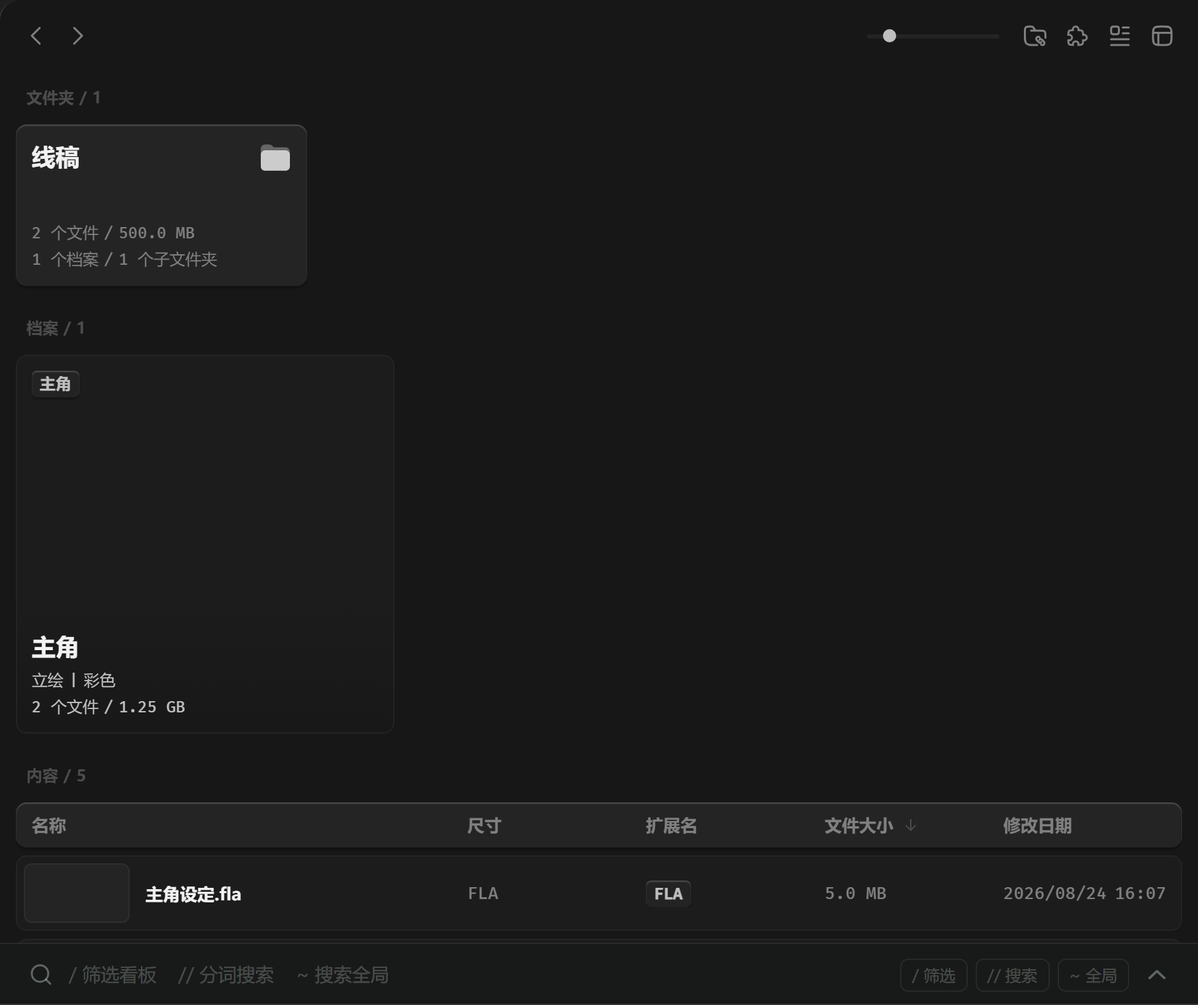
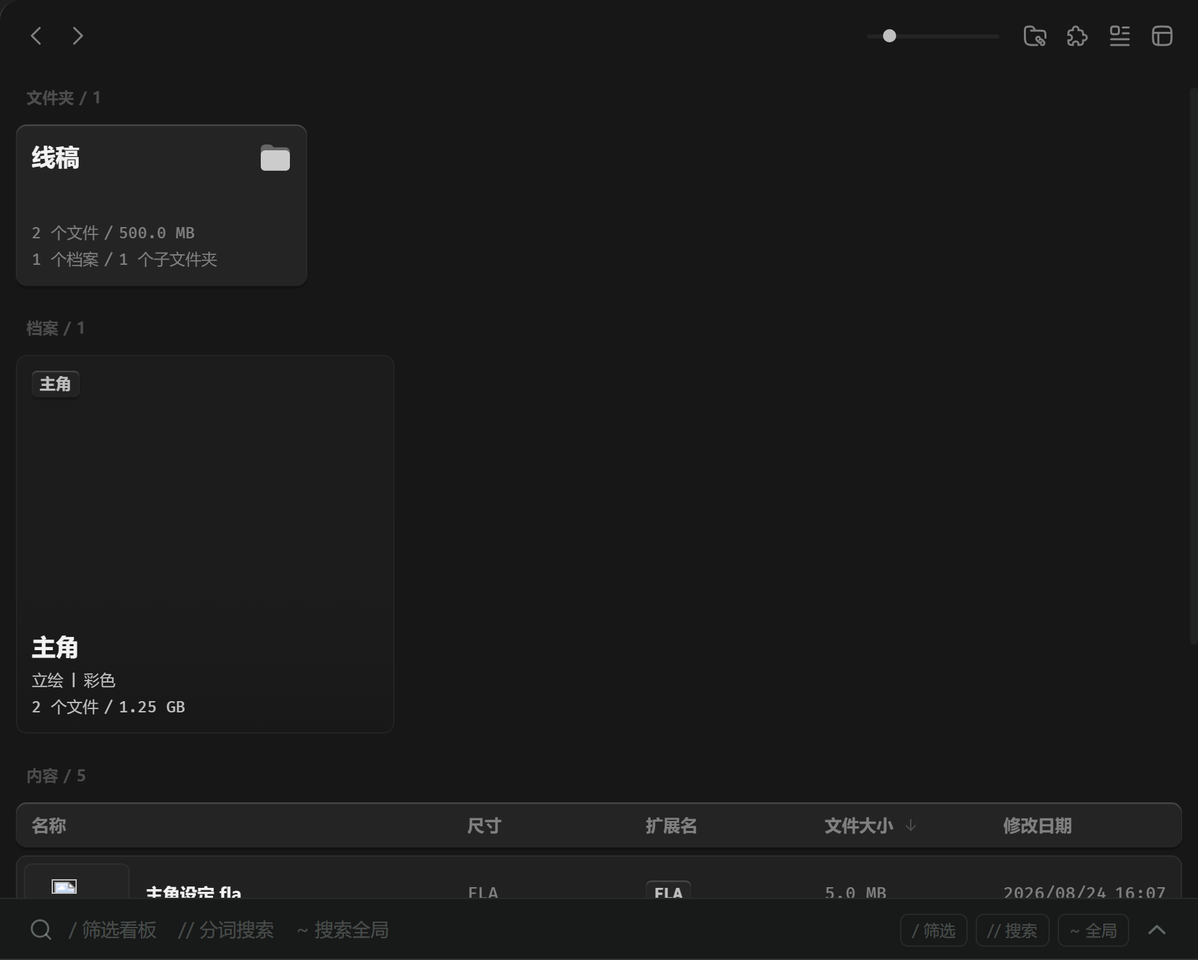
fix(内容区): 列表模式选中修复 + 格式图标 50%（7.1 走查五轮）
① 列表模式无法选中：7.1 列表行壳类名改 .list-row-shell 后，JS 分发
三处仍按旧标记类 .list-row 命中（gridPointerDown 拖拽/框选、
useSpaceZoom 空格放大、gridDispatch 右键菜单）——pointerdown 落空白
回调起框选吞 click。壳根补回 .list-row 标记类（无样式挂钩，一处改
三处全活，注释立勿删警戒）。

② 列表行 shell 图标撑太满：芯 cards/ListRowCard 补 thumbFit 两档
（contain 默认 / icon 50% 居中，FileCard icon 档同口径），壳按
thumbKind === formatIcon 传档。

探针：桩 a2 补 thumbKind=formatIcon；新增 T14d（dispatchMouseEvent
真实点击行选中回归——JS .click() 不过 pointerdown 分发链测不到本
bug）+ T14e（icon 档 39×21.5 = 内容盒 78×43 的 50%）；复跑 ALL PASS。
vue-tsc 绿；速查 §22 / 日志 / 进度同步。

diff --git a/src/components/cards/ListRowCard.vue b/src/components/cards/ListRowCard.vue
@@ -2,7 +2,8 @@
 // 列表卡片——docs/UI 重构/Design Token/组件/卡片/列表卡片.md：
 // 行高 57 / padding 6/12/6/6 / gap 12 / 圆角 8；通用二级底 + 通用三级 1px 描边；
 // hover = 底升通用三级 + 描边升通用五级（描边瞬时切换，踩坑 036 口径）；选中 2px 品牌描边（.kc-sel）。
-// 列：缩略图 80×45（通用三级底 + 五级 1px 描边 + 圆角 6，图 contain——沿用旧 ListRowCard 口径）
+// 列：缩略图 80×45（通用三级底 + 五级 1px 描边 + 圆角 6；thumbFit = contain 默认 / icon 格式图标
+//   50% 居中不撑满——2026-08-30 用户实机，FileCard icon 档同口径）
 //   / 名称+徽章（flex 1 gap 12：正文-加粗 一级 + 原始文件徽章 14 / 链接文件徽章 14）
 //   / 尺寸 / 格式（FormatBadge）/ 文件大小 / 修改时间（日期 + 时间 gap 6）——各 123 宽，数字-大档 亮色/三级。
 // 业务态（7.1 内容容器轮接线，同 cards/FileCard 模式）：naming = 行内重命名（名称位换输入框，
@@ -16,6 +17,7 @@ const props = withDefaults(
   defineProps<{
     name: string;
     thumbUrl?: string;
+    thumbFit?: "contain" | "icon"; // 缩略图适配：contain 默认 / icon = 格式图标 50% 居中（FileCard 同口径）
     badge?: string; // 格式角标（扩展名列）
     dims?: string; // 尺寸（1920 x 1080）
     fileSize?: string; // 文件大小（12 MB）
@@ -29,6 +31,7 @@ const props = withDefaults(
   }>(),
   {
     thumbUrl: "",
+    thumbFit: "contain",
     badge: "",
     dims: "",
     fileSize: "",
@@ -64,7 +67,7 @@ const { draft: nameDraft, bindInput, commit: commitName, onEsc: cancelName } = u
     :class="[{ selected, naming }, forceState ? `force-${forceState}` : '']"
   >
     <span class="lr-thumb">
-      <img v-if="thumbUrl" :src="thumbUrl" class="lr-thumb-img" alt="" decoding="async" draggable="false" />
+      <img v-if="thumbUrl" :src="thumbUrl" class="lr-thumb-img" :class="thumbFit" alt="" decoding="async" draggable="false" />
     </span>
     <span class="lr-name-cell">
       <!-- 命名态：input 替换名称位（整行品牌环提示，输入框透明底，速查 §4 统一口径） -->
@@ -137,6 +140,11 @@ const { draft: nameDraft, bindInput, commit: commitName, onEsc: cancelName } = u
   width: 100%;
   height: 100%;
   object-fit: contain;
+}
+/* 格式图标档（fla 等 shell 图标）：50% 居中不撑满（2026-08-30 用户实机，FileCard icon 档同口径） */
+.lr-thumb-img.icon {
+  width: 50%;
+  height: 50%;
 }
 
 /* 名称列：flex 1 gap 12，正文-加粗 一级截断 + 徽章 14 */

diff --git a/src/components/ListRowCard.vue b/src/components/ListRowCard.vue
@@ -90,7 +90,7 @@ function startRename(): void {
 
 <template>
   <div
-    class="list-row-shell"
+    class="list-row-shell list-row"
     :class="{ 'fade-source': faded === 'source', 'fade-cut': faded === 'cut' }"
     :style="{ left: `${box.left}px`, top: `${box.top}px`, width: `${box.width}px`, height: `${box.height}px` }"
     @click="emit('select', $event)"
@@ -98,6 +98,7 @@ function startRename(): void {
     <RowCard
       :name="displayName"
       :thumb-url="thumbUrl ?? ''"
+      :thumb-fit="asset.thumbKind === 'formatIcon' ? 'icon' : 'contain'"
       :badge="format"
       :dims="size"
       :file-size="fileSize"
@@ -115,7 +116,10 @@ function startRename(): void {
 </template>
 
 <style scoped>
-/* 壳：虚拟滚动 box 绝对定位；选中 / 重命名环与 hover 全归 cards/ListRowCard（kc 族） */
+/* 壳：虚拟滚动 box 绝对定位；选中 / 重命名环与 hover 全归 cards/ListRowCard（kc 族）。
+   .list-row = JS 分发标记类（无样式挂钩，勿删）：gridPointerDown 拖拽/框选分发、useSpaceZoom
+   空格放大定位、gridDispatch 右键菜单均按 ".asset-card, .list-row" 命中——7.1 重构壳改名
+   list-row-shell 后三处断配（单击被当空白起框选吞 click = 列表模式无法选中，2026-08-30 实机报修） */
 .list-row-shell {
   position: absolute;
   cursor: default;

diff --git a/tools/cdp-content-container-probe.py b/tools/cdp-content-container-probe.py
@@ -28,7 +28,9 @@
 #   T13 列表表头：34 高 g3 底圆角 8 padding 8/12 gap 12 + 名称列 flex 1 + 四数据列各 123 +
 #       标签 13/18 Bold 三级
 #   T14 列表行：57 高 padding 6/12/6/6 gap 12 g2 底圆角 8 + 缩略图 80×45（g3 + g5 描边圆角 6）+
-#       数据列 123 mono 数字-大 三级 + 名称 13/18 Bold 一级 + 文件大小/修改日期真值
+#       数据列 123 mono 数字-大 三级 + 名称 13/18 Bold 一级 + 文件大小/修改日期真值；
+#       T14d 真实点击行 → 选中（2026-08-30 列表选中回归，壳 list-row 标记类补回）+
+#       T14e 格式图标行 icon 档 50% 居中（a2 桩 thumbKind=formatIcon）
 #   T15 排序接线：点「文件大小」→ 列 active + 行序升序（首行 50.0 KB）；再点 → 箭头 desc +
 #       降序（首行 5.0 MB）；点「尺寸」列 → 无反应（无 SortKey 档纯展示）
 #   T15b 表头右缘 = 行右缘 = 视口右缘 -12（钉顶列头与行严格对齐）
@@ -99,7 +101,8 @@ window.__TAURI_INTERNALS__ = {
         ] },
       list_placements: [
         P({ assetId: "a1", folderId: "f1", name: "跑步循环.png", w: 1920, h: 1080, ext: "png", size: 2097152 }),
-        P({ assetId: "a2", folderId: "f1", name: "主角设定.fla", ext: "fla", size: 5242880 }),
+        P({ assetId: "a2", folderId: "f1", name: "主角设定.fla", ext: "fla", size: 5242880,
+            thumbKind: "formatIcon", thumbPath: "E:/fake/fla-icon.png" }),
         P({ assetId: "a3", folderId: "f1", name: "参考片段.mp4", w: 1280, h: 720, ext: "mp4", duration: 62.4, size: 1572864 }),
         P({ assetId: "a4", folderId: "f1a", name: "线稿01.png", w: 800, h: 600, ext: "png", size: 102400 }),
         P({ assetId: "a5", folderId: "f1a1", name: "草图01.png", w: 640, h: 480, ext: "png", size: 51200 }),
@@ -647,6 +650,42 @@ async def main():
                   isinstance(row14, dict) and row14.get("szt") == "2.0 MB"
                   and isinstance(row14.get("mt"), list) and row14["mt"] == ["2026/08/24", "16:07"],
                   json.dumps(row14, ensure_ascii=False))
+
+            # T14d 列表行真实点击 → 选中（2026-08-30 实机"列表模式无法选中"回归：壳 list-row 标记类
+            # 补回后 gridPointerDown 命中 ".asset-card, .list-row" 走拖拽分发，不再落空白框选吞 click；
+            # 必须 Input.dispatchMouseEvent 真实点击——JS .click() 不过 pointerdown 分发链测不到本 bug）
+            rc = await ev(
+                "(() => { const rows = [...document.querySelectorAll('.list-row-shell')]"
+                ".sort((a, b) => parseFloat(a.style.top) - parseFloat(b.style.top));"
+                " const r = rows[0].getBoundingClientRect(); return { x: r.x + 200, y: r.y + r.height / 2 }; })()")
+            if isinstance(rc, dict):
+                await send(ws, "Input.dispatchMouseEvent",
+                           {"type": "mousePressed", "x": rc["x"], "y": rc["y"],
+                            "button": "left", "buttons": 1, "clickCount": 1}, session=sess)
+                await send(ws, "Input.dispatchMouseEvent",
+                           {"type": "mouseReleased", "x": rc["x"], "y": rc["y"],
+                            "button": "left", "buttons": 0, "clickCount": 1}, session=sess)
+                await asyncio.sleep(0.4)
+            sel14 = await ev(
+                "(() => { const rows = [...document.querySelectorAll('.list-row-shell')]"
+                ".sort((a, b) => parseFloat(a.style.top) - parseFloat(b.style.top));"
+                " return { sel: !!rows[0].querySelector('.lr-card.selected'),"
+                "  mq: !!document.querySelector('.grid-viewport .marquee') }; })()")
+            check("T14d 列表行真实点击 → 选中（list-row 标记类命中分发，不落空白框选吞 click）",
+                  isinstance(sel14, dict) and sel14.get("sel") is True and sel14.get("mq") is False,
+                  json.dumps(sel14))
+
+            # T14e 格式图标行缩略图 icon 档 50% 居中（a2 fla 桩 thumbKind=formatIcon；
+            # 假 thumbPath 加载失败不影响——50% 是 CSS 尺寸与图加载无关）
+            ico = await ev(
+                "(() => { const rows = [...document.querySelectorAll('.list-row-shell')]"
+                ".sort((a, b) => parseFloat(a.style.top) - parseFloat(b.style.top));"
+                " const img = rows[1]?.querySelector('.lr-thumb-img');"
+                " return img ? { cls: img.className, w: img.offsetWidth, h: img.offsetHeight } : null; })()")
+            check("T14e 格式图标行缩略图 icon 档 50% 居中不撑满（2026-08-30 用户实机）",
+                  isinstance(ico, dict) and "icon" in (ico.get("cls") or "")
+                  and ico.get("w") == 39 and abs((ico.get("h") or 0) - 21.5) < 1,
+                  json.dumps(ico))
 
             async def read_sizes():
                 return await ev(

diff --git a/docs/05_项目进度/00_当前状态.md b/docs/05_项目进度/00_当前状态.md
@@ -1,6 +1,6 @@
 > 任务完成即更新本文件。开发中发现的遗漏细节记入 [[09_待办细节清单]]，按迭代消化，不在代码里就地糊（见 01_开发规范 第 4 条）。
 
-- **阶段七 7.1 二十一轮 · 中间面板-内容容器轮——工具栏 + 列表容器族 + 空态贴稿重构（2026-08-30，feat/new-ui，范围与容量数据两问用户定案：预览族与悬浮栏接入另轮，容量后端扩展一起做）**：**工具栏**（ContentTitleBar 重写）：padding 12 / 面包屑组 gap 12 / 钮组 gap 2 贴稿，钮全迁 buttons/IconButton plain（本轮补 title prop 走 v-tip）；后退/前进 = angle-bracket（前进 flip-h）、添加 = add-file-archive-link、插件 plugin 占位 disabled、分组管理/查看方式沿用、展开详细信息 = collapse-sidebar flip-h（右栏收起才现，业务口径不变）、档案面板展开钮 = collapse-sidebar 原样——旧 nav-history / collapse-detail / thumbnail / ai-tools 引用清零；**搜索结果计数接线**（「搜索结果 / N」= 文件 + 档案命中，正文 二级 + 数字-大 三级）；尺寸滑块 = **BarSlider tone="size" 新档**（轨道 g3、拖钮无描边），SideSlider 出中栏（残留 PreviewFont / PreviewTitleBar 2 处待预览轮）。**骨架**：列表容器 padding 12 12 0 贴稿（layouts PAD = 0/12/0/0——右 12 卡片右缘距容器 12、滚动条命中区贴缘不压卡；底 0 稿值；strips 旧 padding-right 16 撤）；区块标题三处 + 分组标题（原位 + sticky）全迁 **items/SectionTitle**（本轮扩 `actions` prop + `tail` 插槽 + more/add/link emit 带 MouseEvent；折叠守卫在调用方 = dragView.suppressClick）；分组标题占位高 30→26（useGridLayout / sticky 让位 / 两层高同步），sticky 底 --n-g1。**文件夹卡**迁 cards/FolderCard（auto-fill minmax 220 + auto-rows 122 定高 + gap 12）：简介两行恒定「N 个文件 / 容量」+「M 个档案 / K 个子文件夹」（直接子级按 kind 分流）——**容量 = 后端新字段 totalSize**（FolderNode 递归去重合计、folder_tree 与 count 同趟；list_archives 同带、archive_stats 抽出共用；cargo test 405 绿 + 07 接口文档已录）；重命名与 namingFolderCardId 触发上移到 strip。**档案卡**迁 cards/ArchiveCard（aspect-ratio 1 正方形、minmax 250、gap 12 旧 24 废）：徽标 = FormatBadge 统一铬（badge.color 底色芯片口径作废）、属性行 = ArchiveData.props、数量行带容量；右下链接徽章业务口径未定恒 false（09 待办）；旧纸张/回形针造型废除，旧根目录 FolderCard.vue / ArchiveCard.vue 删除。**文件卡 = 壳芯分离**（AssetCard 业务壳 + cards/FileCard 芯，AssetGrid 调用接口零改）：FileCard 扩 thumbFit（cover / contain 网格固定格 / icon 格式图标 50%）/ naming / picked / 默认插槽（悬停播放层注入位：缩略图上、渐变罩下；层根不建层叠上下文，控件 z 4/5 全局层叠胜渐变罩 z 1）；格式角标统一 FormatBadge 铬（formatBadgeColor 仅留"静态图不出角标"null 判定，七组格式色废弃）；位置徽章 14 右下 12（kc-corner-badge 位，旧 15/8 废）；悬停播放触发区 = 整卡（新稿卡即图满铺）；笔记角标保旧视觉旧位（与悬停胶囊位置关系稿未画，09 待办）。**悬停播放层 UI 换代**（播放逻辑不动）：视频 = 右上 kc-float 胶囊（帧号 + 播放/暂停（新增 togglePlay）+ 音量/静音，card-hover-* 图标 14）+ 底部 4px 播放条（l-a2 轨道 / l1 填充 / 贴底 4 左右 12 / 圆头 99 / pointer-events none 不挡名称）；音频 = 右上胶囊（时长 + 播放/暂停）+ mask 波形扫过保留（peaks 竖线波形如稿待后端数据通道，09 待办）+ 1px 播放头竖线废除；base.css 旧 .capsule/.time/.hud-btn 死码清除。**列表模式**：行 = 壳 ListRowCard + 芯 cards/ListRowCard（57 高 / gap 6 / **斑马行废除**统一 g2+g3 描边 / **文件大小·修改日期接真值**——旧写死假占位清欠 / 行级位置徽章 origin·linked 14，悬停链接列表稿未画不接待办）；表头 = 壳 ListHeader + 芯 cards/ListHeader（34 高 g3 底、钉顶 right 12 与行右缘齐）+ **排序接线**（列 key→SortKey：name/ext/size/mtime→modifiedAt；点当前列翻转升降、点新列换键升序，直写 ui.sortBy/sortAsc 同 ViewOptionsMenu 口径；尺寸列无 SortKey 档纯展示，件内 sortable 标记 + 壳双闸）；LIST_ROW_H 69→57 / LIST_ROW_GAP 4→6 / listExtra 52→40。**空态新件 EmptyFolderState**（folder: 视口 + quick:all 且三区皆空；回收站/收件箱不出；插画 folder-empty 200（opacity 0.6 + drop-shadow）+「暂无文件」+ 提示（稿「拖窄」笔误，用户定「拖拽」）+ 导入文件/文件夹双钮（ActionButton solid md + 前置图标，各 137 稿宽；业务 = menuOps.pickImportPaths 既有口径）；根 pointer-events none 穿透仅钮可点）。**卡片业务态统一模式**（cards 族扩 props，TreeRowItem 先例）：naming（卡内 useInlineRename；文件 Esc = 取消 nameCancel / 文件夹·档案 escSaves；空/不变判定在父级）/ dimmed 0.4 / cut 0.5 / dropInto 品牌-50 填充 + 2px 品牌描边 / picked 卡内压暗 30% + 壳层大勾 / pickerSelf 0.5 + not-allowed。图标七批 6 个转 currentColor（add-file-archive-link / plugin / group-manage / view-options / import-file / import-folder）。vue-tsc 绿；速查表 §22 新立；预览页展区同轮更新；cdp-content-container-probe 新立（结果见当日日志）。**同日修订（用户实机走查七条）**：尺寸滑块滑轨 3px（figma height 0 + border 3 = 线宽 3 非盒高 6）；预览工具栏返回 = chevron-large 原样朝左（§6 朝向口径与文件相反修正，旧 rot-180 反了）+ 索引 mono 13/18 + 百分比 mono 12/16 + 图标统一 --n-l3 + 图标名换代（plugin/fit-screen/angle-bracket）；递归显示撤区块标题行（查看方式菜单里有就行）；strips/InboxDisk 补 padding-right 12（PAD.right 只管素材网格，strip 自收——骨架轮误删致右缘出容器被裁）；文件夹卡固定 220 宽列不随窗拉伸（废 1fr 弹性重排抖动）；插入提示与框选 = --n-brand 描边 + --n-brand-50 填充（青绿旧系换品牌蓝）。探针适配复跑 ALL PASS。**同日三轮修订（用户实机"文件卡片没按图片尺寸、都被裁剪了"）**：根因 = 满铺卡落地后布局层仍按旧"图+下文字区"排版追加简介区高度（57/36），盒比例 ≠ 图比例致 cover 必裁——四布局算法删 captionHeight，**盒高 = 纯图高**（盒比例恒 = 图比例 cover 零裁），CARD_CAPTION 双常量删除；**显示简介「关」口径变化 = 仅隐简介行不缩卡**（8-19 缩短卡片旧口径随满铺废除），useGridLayout 不再随 showBrief 重排。cdp-content-container-probe 复跑 ALL PASS；cdp-brief-probe 适配新口径全部通过（S2a = 盒比例 = 图比例核心回归断言 / S3a = 卡高不变）；PRD 04-02 显示简介条文同步。**同日四轮修订（用户实机两条）**：① 链接徽章没随 hover 上移——位置徽章/笔记角标/已选大勾挂壳层（卡芯外），卡芯 hover translateY(-4px) 250ms 而附件不动，三附件补同参数过渡跟随；②「分组怎么没了」= 非回归——递归显示开着时 folderGroupsFor 恒 null（递归不分组，8-19 复验定案：分组配置仅对直接子项生效，递归下后代素材建组成幽灵配置），关递归即回。探针复跑 ALL PASS。
+- **阶段七 7.1 二十一轮 · 中间面板-内容容器轮——工具栏 + 列表容器族 + 空态贴稿重构（2026-08-30，feat/new-ui，范围与容量数据两问用户定案：预览族与悬浮栏接入另轮，容量后端扩展一起做）**：**工具栏**（ContentTitleBar 重写）：padding 12 / 面包屑组 gap 12 / 钮组 gap 2 贴稿，钮全迁 buttons/IconButton plain（本轮补 title prop 走 v-tip）；后退/前进 = angle-bracket（前进 flip-h）、添加 = add-file-archive-link、插件 plugin 占位 disabled、分组管理/查看方式沿用、展开详细信息 = collapse-sidebar flip-h（右栏收起才现，业务口径不变）、档案面板展开钮 = collapse-sidebar 原样——旧 nav-history / collapse-detail / thumbnail / ai-tools 引用清零；**搜索结果计数接线**（「搜索结果 / N」= 文件 + 档案命中，正文 二级 + 数字-大 三级）；尺寸滑块 = **BarSlider tone="size" 新档**（轨道 g3、拖钮无描边），SideSlider 出中栏（残留 PreviewFont / PreviewTitleBar 2 处待预览轮）。**骨架**：列表容器 padding 12 12 0 贴稿（layouts PAD = 0/12/0/0——右 12 卡片右缘距容器 12、滚动条命中区贴缘不压卡；底 0 稿值；strips 旧 padding-right 16 撤）；区块标题三处 + 分组标题（原位 + sticky）全迁 **items/SectionTitle**（本轮扩 `actions` prop + `tail` 插槽 + more/add/link emit 带 MouseEvent；折叠守卫在调用方 = dragView.suppressClick）；分组标题占位高 30→26（useGridLayout / sticky 让位 / 两层高同步），sticky 底 --n-g1。**文件夹卡**迁 cards/FolderCard（auto-fill minmax 220 + auto-rows 122 定高 + gap 12）：简介两行恒定「N 个文件 / 容量」+「M 个档案 / K 个子文件夹」（直接子级按 kind 分流）——**容量 = 后端新字段 totalSize**（FolderNode 递归去重合计、folder_tree 与 count 同趟；list_archives 同带、archive_stats 抽出共用；cargo test 405 绿 + 07 接口文档已录）；重命名与 namingFolderCardId 触发上移到 strip。**档案卡**迁 cards/ArchiveCard（aspect-ratio 1 正方形、minmax 250、gap 12 旧 24 废）：徽标 = FormatBadge 统一铬（badge.color 底色芯片口径作废）、属性行 = ArchiveData.props、数量行带容量；右下链接徽章业务口径未定恒 false（09 待办）；旧纸张/回形针造型废除，旧根目录 FolderCard.vue / ArchiveCard.vue 删除。**文件卡 = 壳芯分离**（AssetCard 业务壳 + cards/FileCard 芯，AssetGrid 调用接口零改）：FileCard 扩 thumbFit（cover / contain 网格固定格 / icon 格式图标 50%）/ naming / picked / 默认插槽（悬停播放层注入位：缩略图上、渐变罩下；层根不建层叠上下文，控件 z 4/5 全局层叠胜渐变罩 z 1）；格式角标统一 FormatBadge 铬（formatBadgeColor 仅留"静态图不出角标"null 判定，七组格式色废弃）；位置徽章 14 右下 12（kc-corner-badge 位，旧 15/8 废）；悬停播放触发区 = 整卡（新稿卡即图满铺）；笔记角标保旧视觉旧位（与悬停胶囊位置关系稿未画，09 待办）。**悬停播放层 UI 换代**（播放逻辑不动）：视频 = 右上 kc-float 胶囊（帧号 + 播放/暂停（新增 togglePlay）+ 音量/静音，card-hover-* 图标 14）+ 底部 4px 播放条（l-a2 轨道 / l1 填充 / 贴底 4 左右 12 / 圆头 99 / pointer-events none 不挡名称）；音频 = 右上胶囊（时长 + 播放/暂停）+ mask 波形扫过保留（peaks 竖线波形如稿待后端数据通道，09 待办）+ 1px 播放头竖线废除；base.css 旧 .capsule/.time/.hud-btn 死码清除。**列表模式**：行 = 壳 ListRowCard + 芯 cards/ListRowCard（57 高 / gap 6 / **斑马行废除**统一 g2+g3 描边 / **文件大小·修改日期接真值**——旧写死假占位清欠 / 行级位置徽章 origin·linked 14，悬停链接列表稿未画不接待办）；表头 = 壳 ListHeader + 芯 cards/ListHeader（34 高 g3 底、钉顶 right 12 与行右缘齐）+ **排序接线**（列 key→SortKey：name/ext/size/mtime→modifiedAt；点当前列翻转升降、点新列换键升序，直写 ui.sortBy/sortAsc 同 ViewOptionsMenu 口径；尺寸列无 SortKey 档纯展示，件内 sortable 标记 + 壳双闸）；LIST_ROW_H 69→57 / LIST_ROW_GAP 4→6 / listExtra 52→40。**空态新件 EmptyFolderState**（folder: 视口 + quick:all 且三区皆空；回收站/收件箱不出；插画 folder-empty 200（opacity 0.6 + drop-shadow）+「暂无文件」+ 提示（稿「拖窄」笔误，用户定「拖拽」）+ 导入文件/文件夹双钮（ActionButton solid md + 前置图标，各 137 稿宽；业务 = menuOps.pickImportPaths 既有口径）；根 pointer-events none 穿透仅钮可点）。**卡片业务态统一模式**（cards 族扩 props，TreeRowItem 先例）：naming（卡内 useInlineRename；文件 Esc = 取消 nameCancel / 文件夹·档案 escSaves；空/不变判定在父级）/ dimmed 0.4 / cut 0.5 / dropInto 品牌-50 填充 + 2px 品牌描边 / picked 卡内压暗 30% + 壳层大勾 / pickerSelf 0.5 + not-allowed。图标七批 6 个转 currentColor（add-file-archive-link / plugin / group-manage / view-options / import-file / import-folder）。vue-tsc 绿；速查表 §22 新立；预览页展区同轮更新；cdp-content-container-probe 新立（结果见当日日志）。**同日修订（用户实机走查七条）**：尺寸滑块滑轨 3px（figma height 0 + border 3 = 线宽 3 非盒高 6）；预览工具栏返回 = chevron-large 原样朝左（§6 朝向口径与文件相反修正，旧 rot-180 反了）+ 索引 mono 13/18 + 百分比 mono 12/16 + 图标统一 --n-l3 + 图标名换代（plugin/fit-screen/angle-bracket）；递归显示撤区块标题行（查看方式菜单里有就行）；strips/InboxDisk 补 padding-right 12（PAD.right 只管素材网格，strip 自收——骨架轮误删致右缘出容器被裁）；文件夹卡固定 220 宽列不随窗拉伸（废 1fr 弹性重排抖动）；插入提示与框选 = --n-brand 描边 + --n-brand-50 填充（青绿旧系换品牌蓝）。探针适配复跑 ALL PASS。**同日三轮修订（用户实机"文件卡片没按图片尺寸、都被裁剪了"）**：根因 = 满铺卡落地后布局层仍按旧"图+下文字区"排版追加简介区高度（57/36），盒比例 ≠ 图比例致 cover 必裁——四布局算法删 captionHeight，**盒高 = 纯图高**（盒比例恒 = 图比例 cover 零裁），CARD_CAPTION 双常量删除；**显示简介「关」口径变化 = 仅隐简介行不缩卡**（8-19 缩短卡片旧口径随满铺废除），useGridLayout 不再随 showBrief 重排。cdp-content-container-probe 复跑 ALL PASS；cdp-brief-probe 适配新口径全部通过（S2a = 盒比例 = 图比例核心回归断言 / S3a = 卡高不变）；PRD 04-02 显示简介条文同步。**同日四轮修订（用户实机两条）**：① 链接徽章没随 hover 上移——位置徽章/笔记角标/已选大勾挂壳层（卡芯外），卡芯 hover translateY(-4px) 250ms 而附件不动，三附件补同参数过渡跟随；②「分组怎么没了」= 非回归——递归显示开着时 folderGroupsFor 恒 null（递归不分组，8-19 复验定案：分组配置仅对直接子项生效，递归下后代素材建组成幽灵配置），关递归即回。探针复跑 ALL PASS。**同日五轮修订（用户实机：列表模式两条）**：① **列表模式无法选中**——7.1 壳类名改 list-row-shell 后 JS 分发三处仍按旧标记类 .list-row 命中（gridPointerDown / useSpaceZoom / gridDispatch），pointerdown 落空白框选吞 click；壳根补回 .list-row 标记类（无样式挂钩一处改三处全活）；② 列表行格式图标撑太满——芯补 thumbFit 两档（contain / icon 50% 居中，FileCard 同口径），壳按 thumbKind=formatIcon 传档。探针新增 T14d（dispatchMouseEvent 真实点击选中回归）+ T14e（icon 档 39×21.5）全 PASS。
 
 **根因链**（新探针 `win-border-measure.py` 实机像素测量坐实：mss 物理截屏 + PIL 剖线 + MoveWindow 相位驱动 + 染色分离实验）：① 五轮同色遮罩环与 DWM 线并集左右不对称（左/上 3px vs 右/下 2px——视口缘与 DWM 线 1 物理 px 系统错位）+ 角部 CSS 弧（10.5 物理）与 DWM 裁切弧（10.3 物理）异径分离出缝，**任何 CSS 线逃不掉系统错位**；顺带推翻两个假设——Chromium 直边 1px border 自动吸附物理 1px 锐线无半透列（"分数 DPR 必糊"不成立）、DWM 线 @150% = **2 物理 px** 非 1。② 角部"钩形透出下层白钮"真根因（用户查证）：tao `transparent:true` 的 blur-behind 空 region hack 让含非客户区的整窗表面按 alpha 合成，"DWM 圆角描边曲线与方形客户区角"间的**月牙缝 alpha=0 成透底洞**；CSS 四角垫块（只及客户区位图）与 `ExtendFrame(-1)` 单加（transparent:true 下）均无效。**落地**：云母模式 `.window.fx-mica::before` **零绘制**（border 0 + shadow none，边框主权 100% 交 DWM；picking 前端全零画、DWM 切染品牌线独存；实色模式自绘不变）+ tauri.conf **`transparent:false + backgroundColor:#00000000`**（Mica 由 DWM 在窗口表面底下合成，不需 tao transparent；要透明的只有 WebView2 默认背景）+ lib.rs **`DwmExtendFrameIntoClientArea(-1)`**（DWM 帧/backdrop 填充非客户区缝；Cargo.toml windows 加 `Win32_UI_Controls`）。实机：四边均匀 2 物理 px、角弧原生观感、月牙缝消失、UI/Mica 完整（用户确认生效）。**验证**：cdp-window-shell-probe W2 组改零绘制断言 ALL PASS；cargo test 403 / vue-tsc 绿。**文档**：063 补六轮实录（含三层归属预防：客户区/非客户区/窗外，垫色块只对客户区有效）、057 配置终态修订（transparent:false 组合）、速查表 §19 更新。**流程坑**：Rust 编译失败（MARGINS 缺 feature）会让 tauri dev 静默死窗——dev 不重启需手动 `pnpm tauri dev`（旧 vite 孤儿占 5373 先杀）。
 

diff --git a/docs/02_样式与布局/03_新面板口径速查.md b/docs/02_样式与布局/03_新面板口径速查.md
@@ -251,6 +251,6 @@
 - **档案卡**：aspect-ratio 1 正方形（minmax 250）+ gap 12（旧 24 废）；徽标 = **FormatBadge 统一铬**（badge.color 底色芯片口径作废）；attrs = ArchiveData.props（" | "）；stats = 「N 个文件 / 容量」（**list_archives 带 totalSize**，archive_stats 抽出共用）；右下链接徽章业务口径未定 → 恒 false（09 待办）；旧 archive-paper 纸张/回形针造型废除，旧根目录 ArchiveCard.vue 删除（FolderCard.vue 同删；SectionHeader 残留 9 处（详情面板 sections / InboxDiskSection / MovePanel）待对应面板轮）。
 - **文件卡 = 壳 + 芯模式**：`AssetCard.vue` = 业务壳（box 绝对定位 / 悬停播放层分发与自动播放闸 / renamingKey / 位置徽章 + LinkListPopover / 笔记角标 / picked·pickerSelf / fade 半透明——接口对 AssetGrid 不变），内芯 = `cards/FileCard`（新增 props：**thumbFit**（cover / contain 网格固定格 / icon 格式图标 50%）、naming、picked；**默认插槽** = 播放层注入位（缩略图上、渐变罩下；层根不建层叠上下文，控件 z 4/5 全局层叠在渐变罩 z 1 之上）；名称 tip = v-tip {text, keys: info, column}）。格式角标 = FormatBadge 统一铬（**formatBadgeColor 仅留"静态图不出角标" null 判定，七组格式色废弃**）；位置徽章 14px 右下各 12（kc-corner-badge 位，旧 15/8 废）；**悬停播放触发区 = 整卡**（新稿卡即图满铺；渐变罩在播放层之上，底部名称行不 scrub 与旧一致）；笔记角标保旧视觉旧位（右上 4，与悬停胶囊 12 位关系稿未画，09 待办）。**盒高 = 纯图高**（2026-08-30 用户实机"卡片没按图片尺寸、都被裁剪"修订）：布局四算法不再按行追加简介区（旧 CARD_CAPTION_H 57 / COMPACT 36 排版随满铺废除——盒高比图高多一截致盒比例 ≠ 图比例，cover 满铺必裁）；盒比例恒 = 图比例（thumbW ?? w ?? 300），cover 零裁；**显示简介关 = 仅隐简介行不缩卡**（旧"缩短卡片 57→36"2026-08-19 口径废除，useGridLayout 不再随 showBrief 重排）。**壳层附件随卡芯 hover 上移**（2026-08-30 用户实机"徽章没随 hover 上移"修订）：位置徽章 / 笔记角标 / 已选大勾在壳层（卡芯外），卡芯 kc-media:hover translateY(-4px) 250ms——三附件同参数 translateY(-4px) 跟随（大勾保 translate(-50%) 居中换算）。
 - **悬停播放层 UI 换代**（播放逻辑不动）：视频 = 右上胶囊（kc-float：帧号 + 播放/暂停 + 音量/静音，card-hover-* 图标 14，二级 hover 一级）+ 底部 4px 播放条（轨道 l-a2、填充 l1、贴底 4 左右 12、圆头 99、pointer-events none）；音频 = 右上胶囊（时长 + 播放/暂停）+ mask 波形扫过保留（**peaks 竖线波形如稿待后端数据通道，09 待办**）、1px 播放头竖线废除（稿无）；base.css 旧 .capsule/.time/.hud-btn 死码已清。
-- **列表模式**：行 = 壳 ListRowCard + 芯 cards/ListRowCard（57 高 / gap 6 / **斑马行废除**统一 g2+g3 描边；**文件大小/修改日期接真值**（旧写死假占位废除）；行级位置徽章（origin ★ / linked icon 14，**悬停链接列表稿未画不接**，09 待办））；表头 = 壳 ListHeader（钉顶 right 12 与行右缘齐）+ 芯 cards/ListHeader（34 高 g3 底），**排序接线**（列 key→SortKey：name/ext/size/mtime→modifiedAt；点当前列翻转升降、点新列换键升序，直写 ui.sortBy/sortAsc 同 ViewOptionsMenu 口径；**尺寸列无 SortKey 档纯展示**——cards/ListHeader 列定义 sortable 标记双闸）；layouts.ts LIST_ROW_H 57 / LIST_ROW_GAP 6，useGridLayout listExtra = 40（34+6）。
+- **列表模式**：行 = 壳 ListRowCard + 芯 cards/ListRowCard（57 高 / gap 6 / **斑马行废除**统一 g2+g3 描边；**文件大小/修改日期接真值**（旧写死假占位废除）；行级位置徽章（origin ★ / linked icon 14，**悬停链接列表稿未画不接**，09 待办）；缩略图 80×45，thumbFit = contain 默认 / **icon 格式图标 50% 居中不撑满**——2026-08-30 用户实机，FileCard icon 档同口径）；**壳根必带 `.list-row` 标记类**（无样式挂钩勿删——gridPointerDown 拖拽/框选、useSpaceZoom 空格放大、gridDispatch 右键菜单均按 ".asset-card, .list-row" 命中，7.1 壳改名 list-row-shell 后断配 = 列表模式单击被当空白框选吞 click 无法选中，同日实机报修补回）；表头 = 壳 ListHeader（钉顶 right 12 与行右缘齐）+ 芯 cards/ListHeader（34 高 g3 底），**排序接线**（列 key→SortKey：name/ext/size/mtime→modifiedAt；点当前列翻转升降、点新列换键升序，直写 ui.sortBy/sortAsc 同 ViewOptionsMenu 口径；**尺寸列无 SortKey 档纯展示**——cards/ListHeader 列定义 sortable 标记双闸）；layouts.ts LIST_ROW_H 57 / LIST_ROW_GAP 6，useGridLayout listExtra = 40（34+6）。
 - **空文件夹空态 = EmptyFolderState.vue**（新件）：folder: 视口 + quick:all 且三区（文件夹/档案/文件）皆空时显示；回收站/收件箱不出；插画 folder-empty 200（opacity 0.6 + drop-shadow 0 4 20 40%）+「暂无文件」标题档 二级 + 提示正文 三级（稿「拖窄」= 笔误，用户定「拖拽」）+ 导入文件/导入文件夹（ActionButton solid md + 前置图标，各 137 宽稿值，业务 = menuOps.pickImportPaths 既有口径）；根 pointer-events none 穿透（不挡空白右键/框选/拖入），仅按钮 auto。
 - **图标七批 6 个转 currentColor**：add-file-archive-link / plugin / group-manage / view-options / import-file / import-folder（命名对照.md 已登记）。

diff --git a/docs/04_开发日志/2026-08-30.md b/docs/04_开发日志/2026-08-30.md
@@ -245,3 +245,9 @@
 - **卡片链接徽章随 hover 上移**：位置徽章 / 笔记角标 / 已选大勾挂在 AssetCard 壳层（卡芯 FileCard 外），卡芯 kc-media:hover translateY(-4px) 250ms 而壳层附件不动——三附件补同参数过渡跟随（大勾保 translate(-50%) 居中，换算 calc(-50% - 4px)）。
 - **「分组怎么没了」= 非回归**：递归显示（查看方式「显示子文件夹内容」）开启时 folderGroupsFor 恒 null（递归不分组，2026-08-19 复验定案——分组配置仅对直接子项生效，递归下为后代素材建的组在非递归视图成幽灵配置）。关递归即回。无代码改动。
 - 内容容器探针复跑 ALL PASS（断言不涉壳层附件位移，零适配）；vue-tsc 绿；速查 §22 文件卡条补壳层附件 hover 跟随口径。
+
+## 二十一轮五轮修订（用户实机：列表模式两条）
+
+- **列表模式无法选中**：根因 = 7.1 列表行壳重构类名改 `.list-row-shell`，而 JS 分发三处仍按旧标记类 `.list-row` 命中（dragOperation.gridPointerDown 拖拽/框选分发、useSpaceZoom 空格放大定位、gridDispatch 右键菜单）——pointerdown 落空白回调起框选吞 click，单击/空格放大/行右键全灭。修法 = 壳根补回 `.list-row` 标记类（无样式挂钩，一处改三处全活；样式注释立"勿删"警戒）。
+- **列表行格式图标撑太满**：fla 等 shell 图标行缩略图 contain 撑满 80×45——芯 cards/ListRowCard 补 `thumbFit` 两档（contain 默认 / icon = 50% 居中，FileCard icon 档同口径），壳按 `thumbKind === 'formatIcon'` 传档。
+- 探针：桩 a2 补 thumbKind=formatIcon + 假 thumbPath；新增 T14d（**Input.dispatchMouseEvent 真实点击**行 → 选中——JS .click() 不过 pointerdown 分发链测不到本 bug）+ T14e（icon 档 50% = 39×21.5，相对内容盒 78×43 非边框盒 80×45）；复跑全 PASS。vue-tsc 绿；速查 §22 列表模式条同步（list-row 标记类 + icon 档）。
